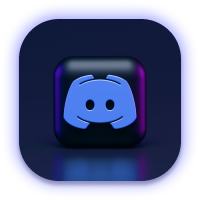
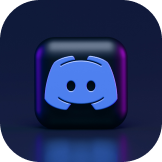
Change hover effect

diff --git a/css/all.css b/css/all.css
@@ -110,6 +110,8 @@ h2 {
 .skill-set li {
     padding: 16px;
     width: 306px;
+    border: 1px solid #e3e3e3;
+    box-shadow: 4px 4px 4px 0 rgb(0, 0, 0, .08);
 }
 .skill-set li span {
     margin: 4px 0;
@@ -141,10 +143,11 @@ h2 {
 .share img {
     width: 162px;
     height: 162px;
+    border-radius: 40px;
     transition: .35s;
 }
 .share img:hover {
-    transform: scale(1.2);
+    box-shadow: 0 0 16px 3px rgb(144, 148, 255, .9);
 }
 
 /* My Projects */
